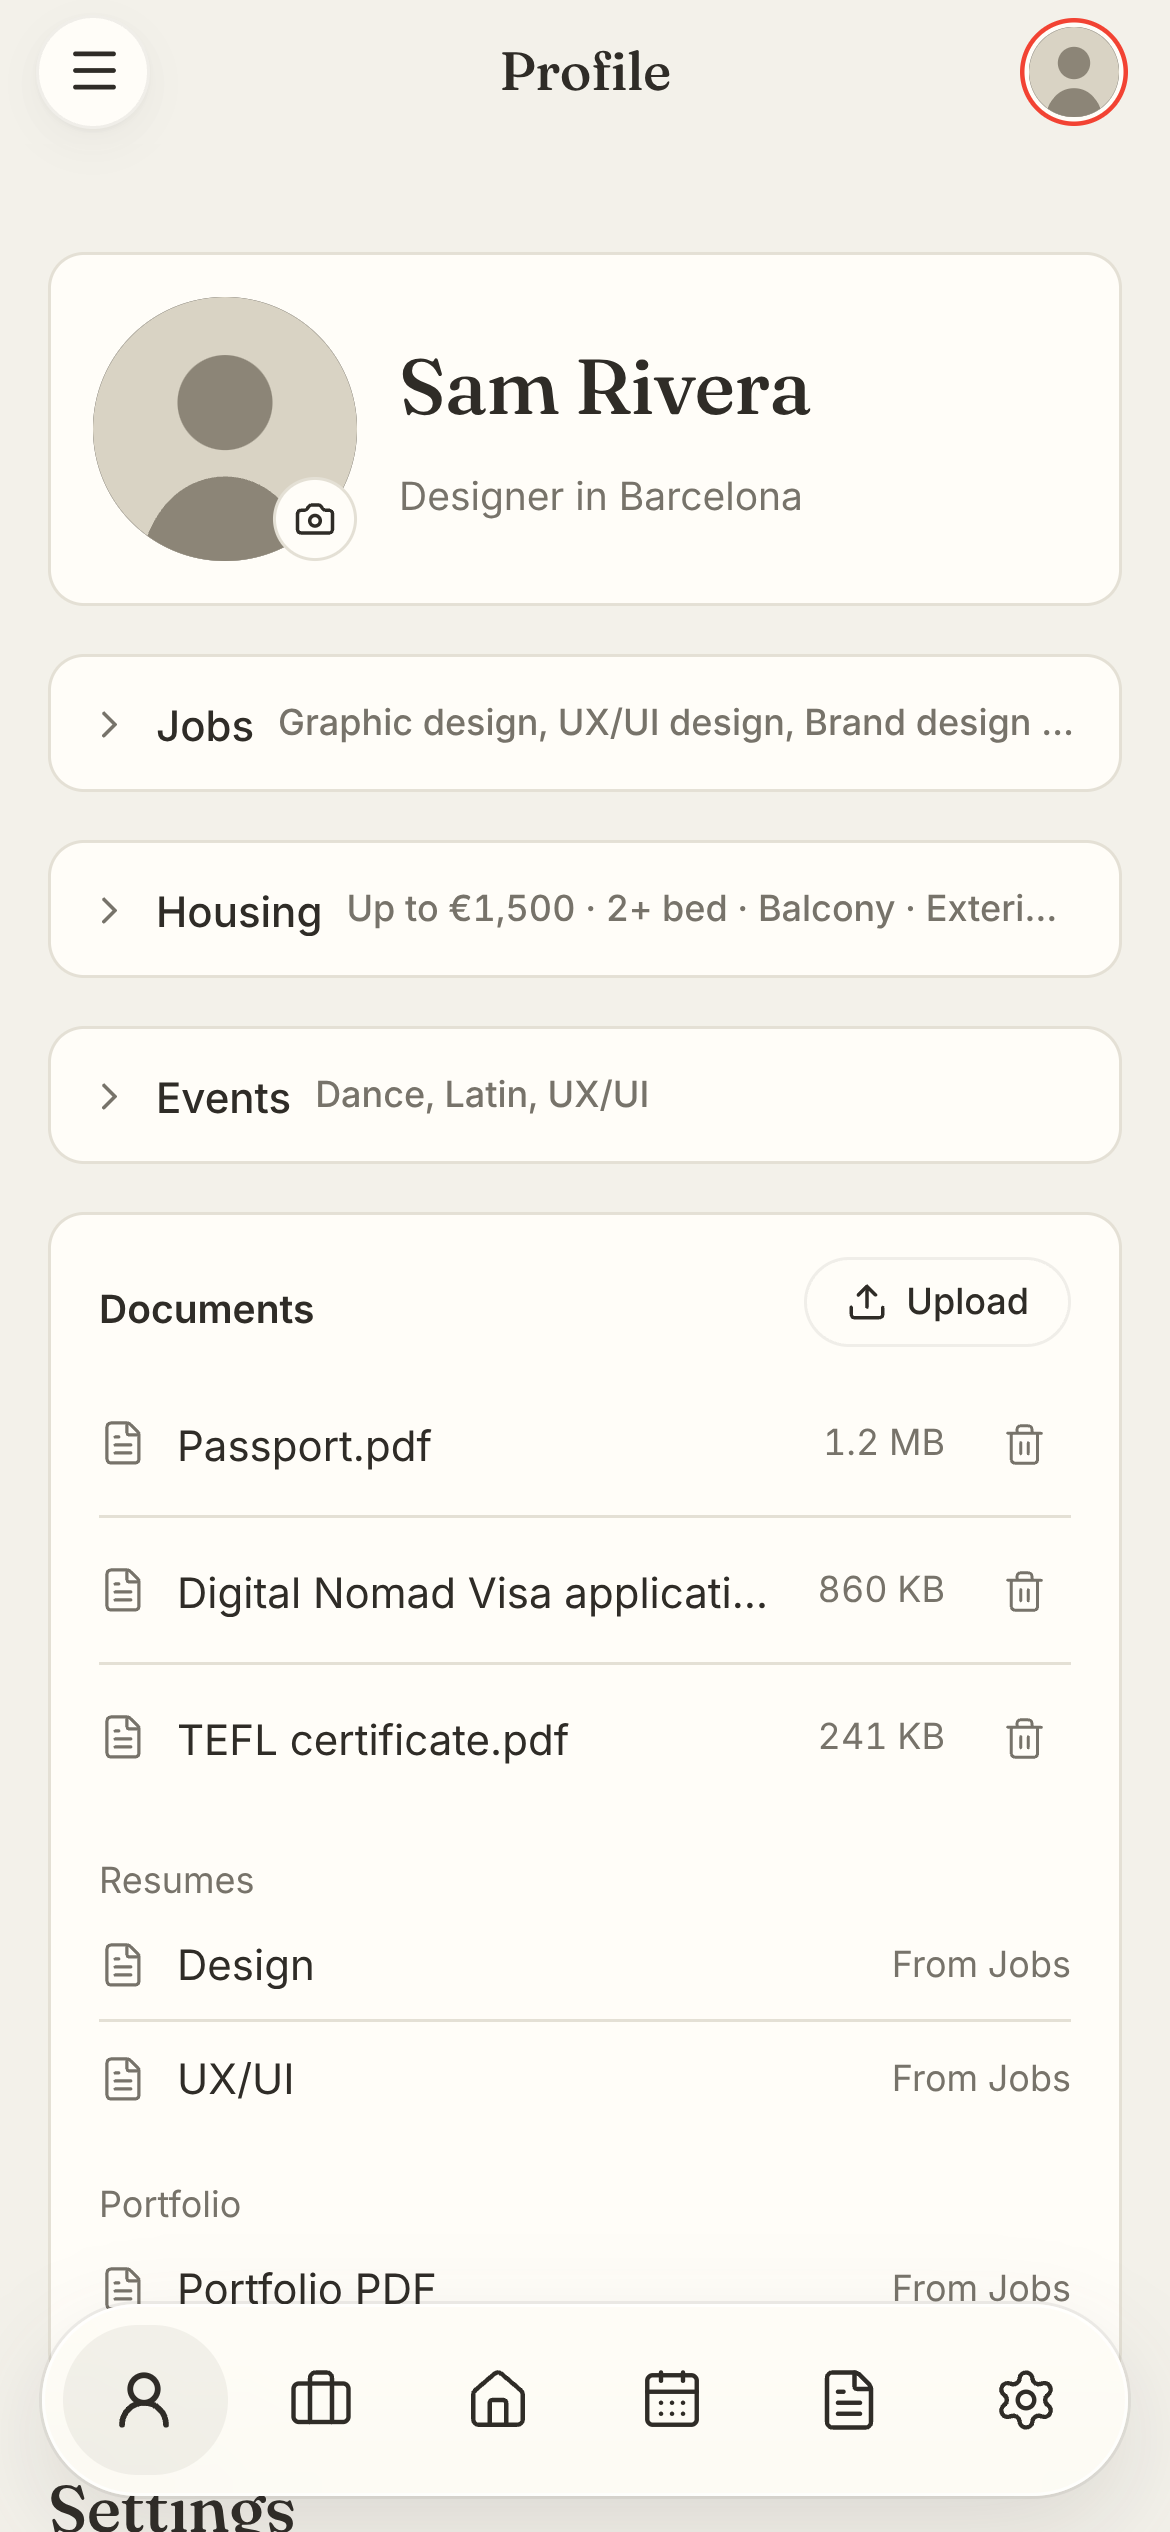
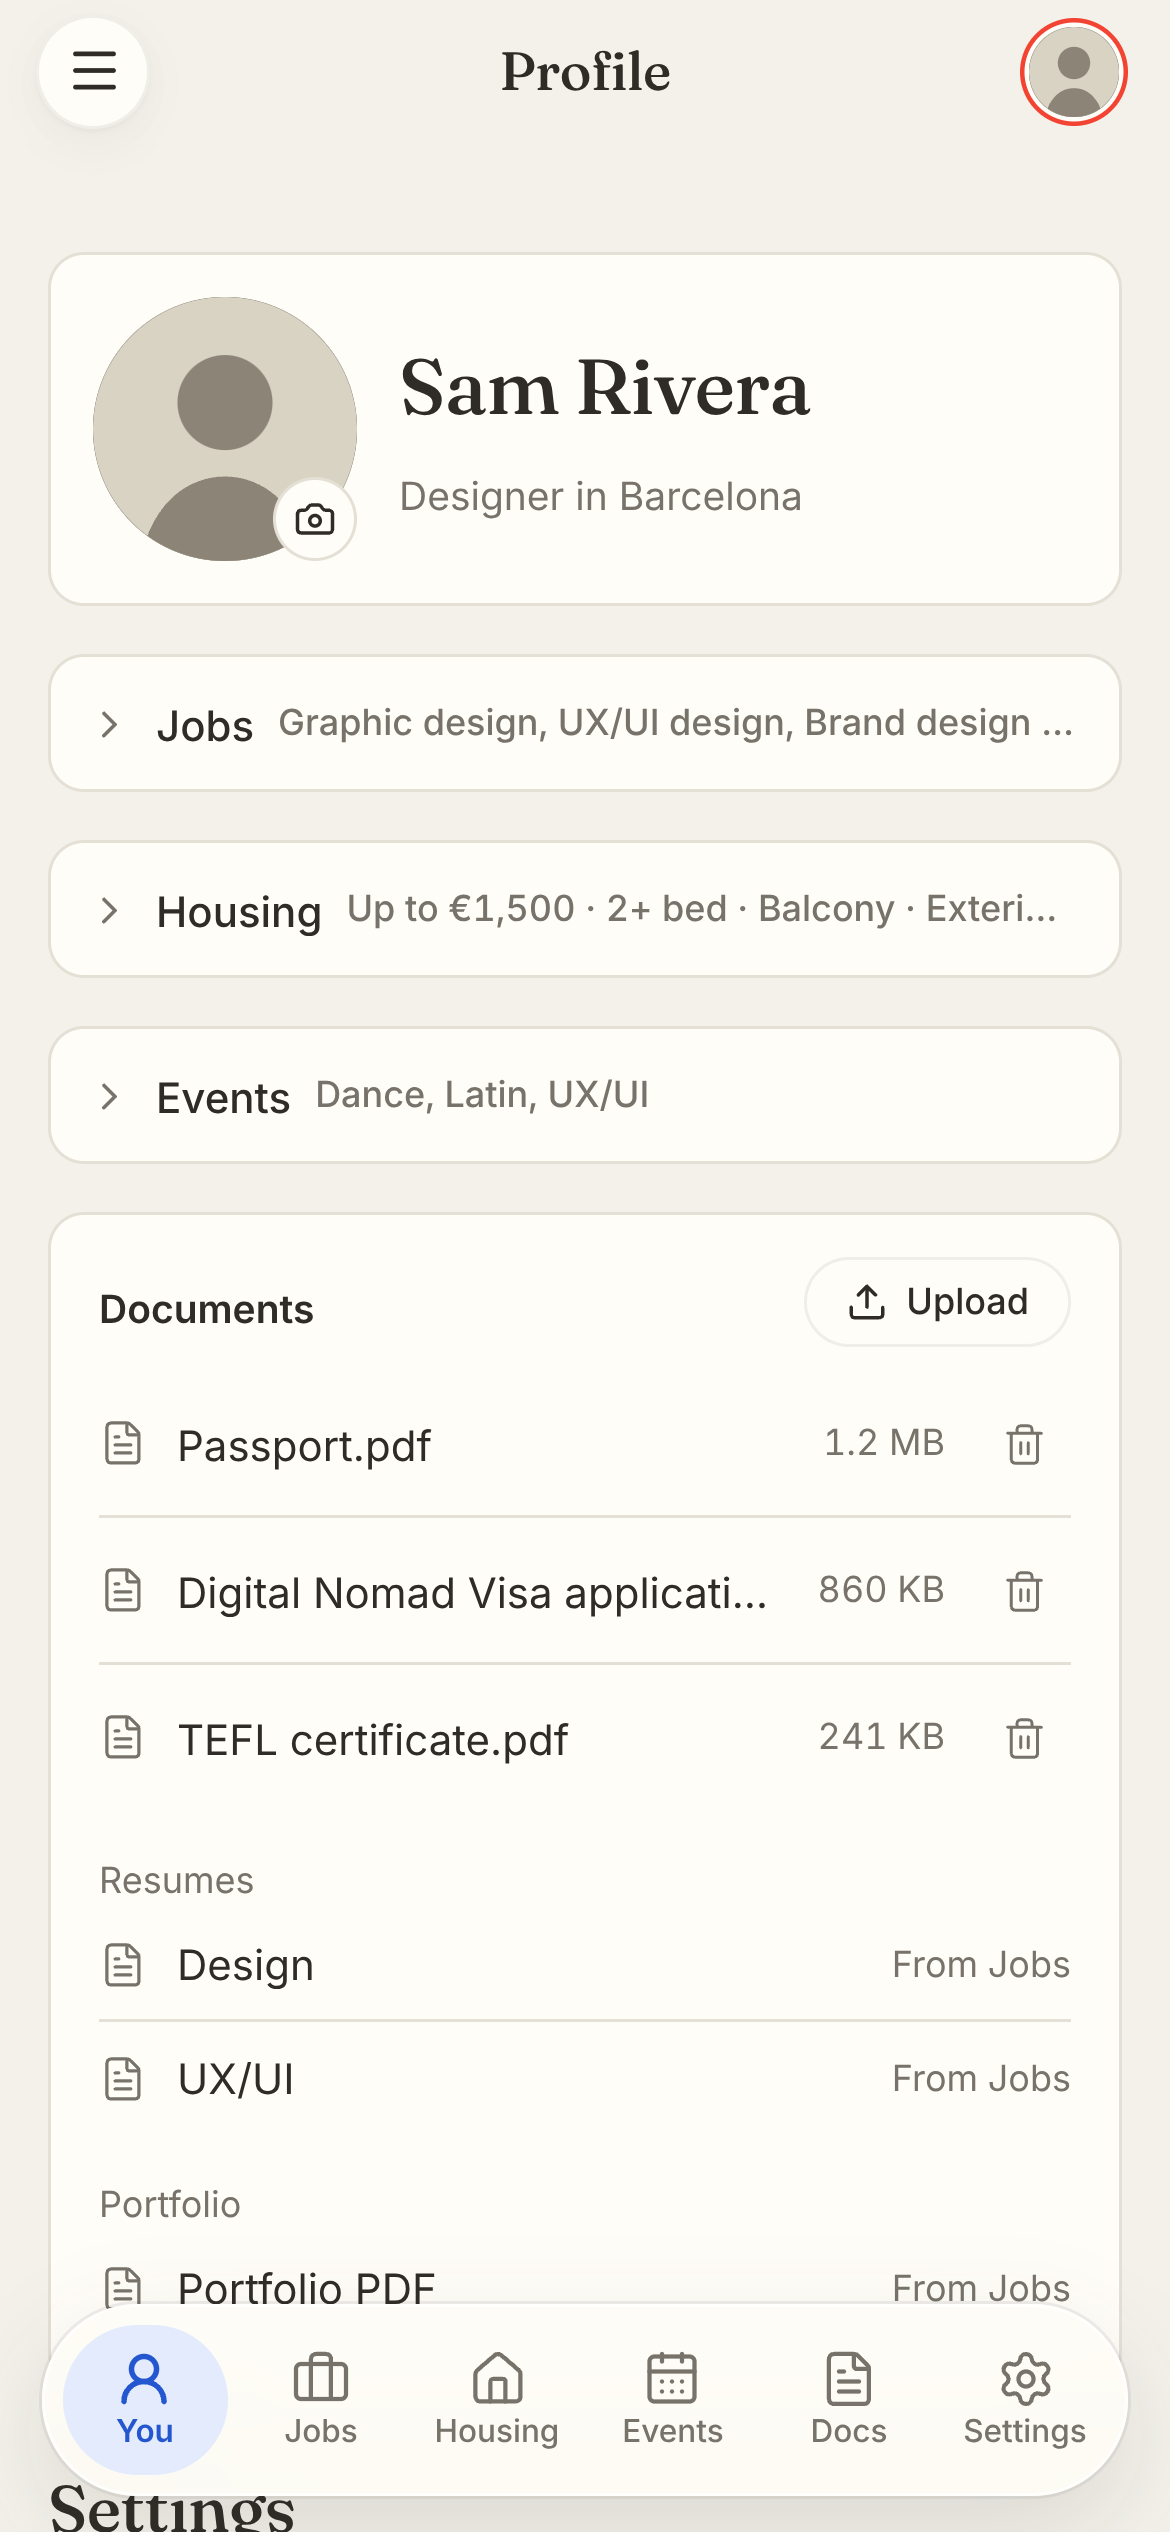
Phone: labeled tabs with a blue current tab, drawer pushes the whole app aside as a card, Email filters switch to the list
Claude-Session: https://claude.ai/code/session_014Egirv3gvbTzrnHaoEqViP

diff --git a/src/styles.css b/src/styles.css
@@ -974,8 +974,11 @@ textarea, .plain, .field input { border-color: var(--ctl-line); border-radius: 1
     box-shadow: 0 0 0 1px var(--ctl-line), 0 12px 34px rgba(47, 44, 39, .12);
   }
   .m-tab { height: 100%; border-radius: 99px; color: var(--fg); transition: background 180ms ease, transform 120ms ease; }
-  .m-tab.active { color: var(--fg); background: var(--soft); }
+  .m-tab.active { color: var(--blue-ink); background: var(--blue-soft); }
   .m-tab.active .nav-icon::after { display: none; }
+  .m-tab { display: flex; flex-direction: column; align-items: center; justify-content: center; gap: 3px; min-width: 0; color: var(--muted); }
+  .m-tab-label { font-size: 10.5px; font-weight: 500; line-height: 1; max-width: 100%; padding: 0 2px; overflow: hidden; text-overflow: ellipsis; white-space: nowrap; }
+  .m-tab.active .m-tab-label { font-weight: 600; }
   .m-tabs { grid-template-columns: none; grid-auto-flow: column; grid-auto-columns: 1fr; }
   .m-tabs:empty { display: none; }
   .m-tab-word { font-size: 13px; font-weight: 500; max-width: 100%; overflow: hidden; text-overflow: ellipsis; white-space: nowrap; padding: 0 6px; }
@@ -983,18 +986,23 @@ textarea, .plain, .field input { border-color: var(--ctl-line); border-radius: 1
   .desk-only { display: none !important; }
   .phone-only { display: revert; }
   /* when a page's tabs moved to the bottom bar and only its round buttons are left, they sit beside the eyebrow */
-  .page:has(> .controls > .controls-end:only-child) > .page-head { padding-right: 48px; }
-  .page > .page-head + .controls:has(> .controls-end:only-child) { margin-top: -46px; justify-content: flex-end; pointer-events: none; }
+  .page:has(> .controls > .controls-end:only-child:not(:has(.btn))) > .page-head { padding-right: 48px; }
+  .page > .page-head + .controls:has(> .controls-end:only-child):not(:has(.btn)) { margin-top: -46px; justify-content: flex-end; pointer-events: none; }
   .page > .page-head + .controls:has(> .controls-end:only-child) > * { pointer-events: auto; }
 
-  .main, .m-top, .m-tabs, .rec-pill { transition: transform 420ms var(--push), border-radius 420ms var(--push); }
-  body.drawer-open { overflow: hidden; }
-  body.drawer-open .main { transform: translateX(var(--drawer)); border-radius: 28px; box-shadow: -1px 0 0 var(--ctl-line), -12px 0 40px rgba(47, 44, 39, .08); background: var(--bg); overflow: hidden; height: 100dvh; }
-  body.drawer-open .m-top, body.drawer-open .m-tabs, body.drawer-open .rec-pill { transform: translateX(var(--drawer)); }
+  .shell { transition: transform 460ms var(--push), border-radius 460ms var(--push), box-shadow 460ms var(--push); transform-origin: 0 50%; }
+  body.drawer-lock { overflow: hidden; }
+  body.drawer-lock .shell { position: fixed; inset: 0; overflow: hidden; background: var(--bg); z-index: 2; }
+  body.drawer-lock .main { margin-top: var(--sy); }
+  body.drawer-open .shell {
+    transform: translateX(var(--drawer)) scale(.86); border-radius: 36px;
+    box-shadow: 0 0 0 1px var(--ctl-line), -16px 0 50px rgba(47, 44, 39, .16);
+  }
+  body.drawer-open .m-top { background: transparent; -webkit-backdrop-filter: none; backdrop-filter: none; }
   .m-drawer {
-    display: flex; flex-direction: column; position: fixed; z-index: 1; inset: 0 auto 0 0; width: var(--drawer);
+    display: flex; flex-direction: column; position: fixed; z-index: 1; height: 100dvh; inset: 0 auto 0 0; width: var(--drawer);
     padding: calc(env(safe-area-inset-top) + 22px) 14px calc(env(safe-area-inset-bottom) + 18px);
-    background: #FBFAF6; overflow-y: auto;
+    background: var(--bg); overflow-y: auto;
     opacity: 0; transform: translateX(-24px); visibility: hidden;
     transition: opacity 300ms ease, transform 420ms var(--push), visibility 0s 420ms;
   }
@@ -1004,11 +1012,10 @@ textarea, .plain, .field input { border-color: var(--ctl-line); border-radius: 1
   .m-drawer hr { border: 0; border-top: 1px solid var(--line); margin: 10px 12px; }
   .m-drawer .m-row { height: 48px; gap: 14px; padding: 0 14px; border-radius: 99px; font-size: 16px; }
   .m-drawer .m-row .avatar { box-shadow: none; }
-  .m-row.active { background: var(--soft); }
-  .m-row.active svg:first-child { color: var(--fg); }
+  .m-row.active { background: var(--blue-soft); color: var(--blue-ink); font-weight: 600; }
+  .m-row.active svg:first-child { color: var(--blue); }
   .m-drawer-foot { margin-top: auto; padding-top: 18px; display: flex; gap: 10px; align-items: center; }
   .m-foot-btn { width: 44px; height: 44px; text-decoration: none; }
-  .m-foot-pill { flex: 1; height: 44px; justify-content: center; }
   .m-shade { position: fixed; z-index: 45; inset: 0 0 0 var(--drawer); border: 0; padding: 0; background: transparent; }
   body.drawer-open .m-shade { display: block; }
 }

diff --git a/src/components/MobileNav.jsx b/src/components/MobileNav.jsx
@@ -1,6 +1,7 @@
 import { useEffect, useState } from 'react'
+import { createPortal } from 'react-dom'
 import { NavLink, Link, useLocation } from 'react-router-dom'
-import { Menu, Settings, PenLine } from 'lucide-react'
+import { Menu, Settings } from 'lucide-react'
 import Avatar from './Avatar.jsx'
 import { sections, settingsSection } from '../sections.js'
 
@@ -47,12 +48,25 @@ export default function MobileNav({ counts }) {
     return () => window.removeEventListener('scroll', onScroll)
   }, [])
 
+  // Open: the whole app becomes a card pushed to the right (kept at its scroll spot), the drawer sits behind it.
+  // Close: the card slides back, then the page unlocks and scrolls to where it was.
   useEffect(() => {
-    document.body.classList.toggle('drawer-open', open)
-    if (!open) return () => document.body.classList.remove('drawer-open')
+    const body = document.body
+    if (!open) return
+    const y = window.scrollY
+    body.style.setProperty('--sy', `${-y}px`)
+    body.classList.add('drawer-lock', 'drawer-open')
     const onKey = (e) => { if (e.key === 'Escape') setOpen(false) }
     document.addEventListener('keydown', onKey)
-    return () => { document.removeEventListener('keydown', onKey); document.body.classList.remove('drawer-open') }
+    return () => {
+      document.removeEventListener('keydown', onKey)
+      body.classList.remove('drawer-open')
+      setTimeout(() => {
+        if (body.classList.contains('drawer-open')) return
+        body.classList.remove('drawer-lock')
+        window.scrollTo(0, y)
+      }, 420)
+    }
   }, [open])
 
   const t = open ? 0 : -1
@@ -70,6 +84,7 @@ export default function MobileNav({ counts }) {
 
       <nav className="m-tabs" id="m-tabs-slot" aria-label="Sections" />
 
+      {createPortal(<>
       <aside className={'m-drawer' + (open ? ' show' : '')} aria-label="Menu" aria-hidden={!open}>
         <Link to="/" className="m-drawer-title" tabIndex={t}>Life</Link>
         <div className="m-label">Pages</div>
@@ -80,10 +95,10 @@ export default function MobileNav({ counts }) {
         </NavLink>
         <div className="m-drawer-foot">
           <Link to="/profile#settings" className="icon-btn round-btn m-foot-btn" aria-label="Settings" tabIndex={t}><Settings size={19} /></Link>
-          <Link to="/" className="btn m-foot-pill" tabIndex={t}><PenLine size={16} />Brain dump</Link>
         </div>
       </aside>
       <button className="m-shade" aria-label="Close menu" tabIndex={-1} onClick={() => setOpen(false)} />
+      </>, document.body)}
     </div>
   )
 }

diff --git a/src/components/Controls.jsx b/src/components/Controls.jsx
@@ -28,9 +28,10 @@ export function Tabs({ tabs, value, onPick, phoneOnly }) {
         <button key={t.k} className={'m-tab' + (on ? ' active' : '')} aria-label={t.label} title={t.label}
           aria-pressed={on} onClick={() => onPick(t.k)}>
           <span className="nav-icon">
-            {Icon?.props ? Icon : Icon ? <Icon size={22} strokeWidth={on ? 2.1 : 1.6} /> : <span className="m-tab-word">{t.label}</span>}
+            {Icon?.props ? Icon : Icon ? <Icon size={20} strokeWidth={on ? 2.2 : 1.7} /> : <span className="m-tab-word">{t.label}</span>}
             {t.n ? <span className="badge">{t.n}</span> : null}
           </span>
+          {Icon && <span className="m-tab-label">{t.short || t.label}</span>}
         </button>
       )
     }), slot)

diff --git a/src/pages/Profile.jsx b/src/pages/Profile.jsx
@@ -293,7 +293,7 @@ export default function Profile() {
       <Tabs phoneOnly value={at} onPick={jump} tabs={[
         { k: 'me', label: 'You', icon: UserRound }, { k: 'jobs', label: 'Jobs', icon: Briefcase },
         { k: 'housing', label: 'Housing', icon: Home }, { k: 'events', label: 'Events', icon: CalendarDays },
-        { k: 'documents', label: 'Documents', icon: FileText }, { k: 'settings', label: 'Settings', icon: Settings },
+        { k: 'documents', label: 'Documents', short: 'Docs', icon: FileText }, { k: 'settings', label: 'Settings', icon: Settings },
       ]} />
       <Head />
       <Section id="jobs" title="Jobs" summary={jobSummary} open={open === 'jobs'} setOpen={setOpen}>

diff --git a/src/pages/Email.jsx b/src/pages/Email.jsx
@@ -490,7 +490,8 @@ export default function Email() {
   const toReply = (snap?.payload?.threads || []).filter((t) => replyIds.has(t.id) && pass(t))
   const shown = filter === 'reply' ? all.filter((t) => replyIds.has(t.id)) : all.filter(pass)
   const tab = live && filter === 'drafts' ? 'outbox' : view
-  const pick = (k) => { setFilter(k); setOpen(null) }
+  // Any filter but To reply is a list, so picking one always shows something different
+  const pick = (k) => { setFilter(k); setOpen(null); if (k !== 'reply') setView('inbox') }
 
   const showOptions = [...filters, ...(live ? [{ k: 'drafts', label: 'Drafts', icon: FilePen }] : [])]
 

diff --git a/src/pages/Timeline.jsx b/src/pages/Timeline.jsx
@@ -7,8 +7,8 @@ import ViewMenu from '../components/ViewMenu.jsx'
 import { History, PenLine, CalendarDays, CircleCheck } from 'lucide-react'
 
 const SHOW = [
-  { k: 'all', label: 'Everything', icon: History },
-  { k: 'dump', label: 'Brain dumps', icon: PenLine },
+  { k: 'all', label: 'Everything', short: 'All', icon: History },
+  { k: 'dump', label: 'Brain dumps', short: 'Dumps', icon: PenLine },
   { k: 'event', label: 'Events', icon: CalendarDays },
   { k: 'done', label: 'Done', icon: CircleCheck },
 ]
